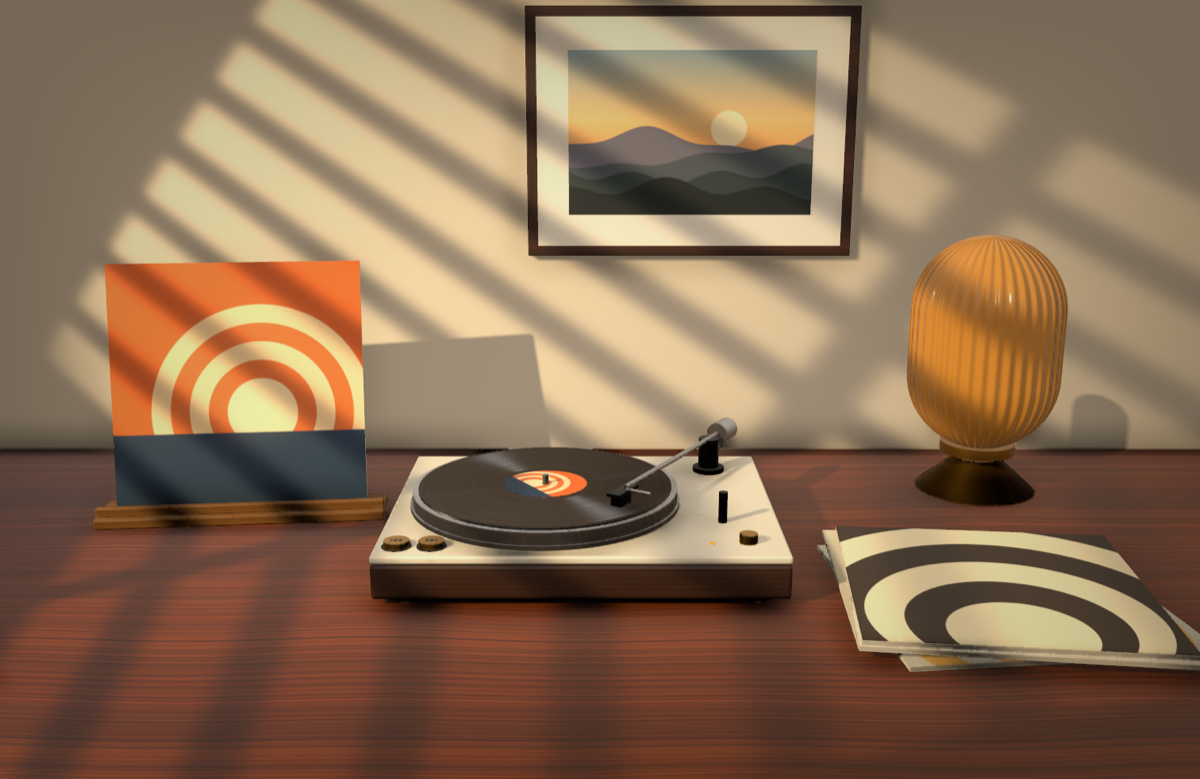
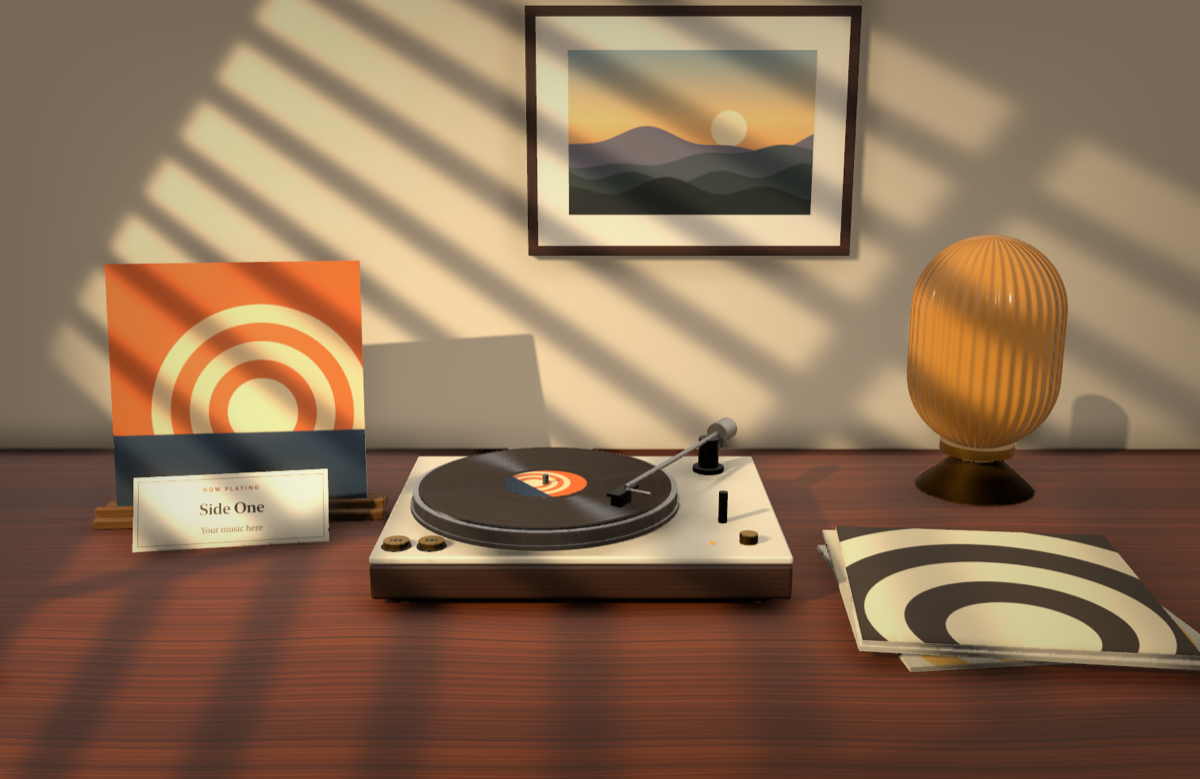
Show the song title on a card beside the sleeve

Changed region(s): [[0.0925, 0.5854, 0.3083, 0.7394]]

diff --git a/Sources/Vinyl/TurntableScene.swift b/Sources/Vinyl/TurntableScene.swift
@@ -56,6 +56,14 @@ final class TurntableScene {
     /// Things on the turntable that react to a click.
     enum Control: String { case playPause = "ctl.playpause", next = "ctl.next", previous = "ctl.prev" }
     private var buttons: [Control: SCNNode] = [:]
+
+    // Now-playing card.
+    private let cardHolder = SCNNode()
+    private let cardTilt = SCNNode()
+    private var cardMaterial = SCNMaterial()
+    private var cardEnabled = true
+    private var cardHasText = false
+    private let cardSize = CGSize(width: 2.3, height: 0.9)
     private var knobNode = SCNNode()
 
     private struct StackItem { let node: SCNNode; let dx: CGFloat; let dz: CGFloat; let yaw: CGFloat }
@@ -296,6 +304,50 @@ final class TurntableScene {
         stand.addChildNode(node(SCNBox(width: 3.6, height: 0.13, length: 0.75, chamferRadius: 0.025), oak, at: SCNVector3(0, 0.065, 0)))
         stand.addChildNode(node(SCNBox(width: 3.6, height: 0.12, length: 0.1, chamferRadius: 0.02), oak, at: SCNVector3(0, 0.18, 0.2)))
         scene.rootNode.addChildNode(stand)
+
+        // Title card: a small printed card propped up in front of the stand.
+        cardMaterial = Self.mat(Self.rgb(0.93, 0.90, 0.83), rough: 0.7)
+        let paper = Self.mat(Self.rgb(0.90, 0.88, 0.83), rough: 0.8)
+        let box = SCNBox(width: cardSize.width, height: cardSize.height, length: 0.025, chamferRadius: 0)
+        box.materials = [cardMaterial, paper, paper, paper, paper, paper]
+        let card = SCNNode(geometry: box)
+        card.position = SCNVector3(0, cardSize.height / 2, 0)
+        cardTilt.addChildNode(card)
+        cardHolder.addChildNode(cardTilt)
+        cardHolder.opacity = 0
+        cardHolder.isHidden = true
+        scene.rootNode.addChildNode(cardHolder)
+    }
+
+    /// Print a new title on the card (or clear it when nothing is loaded).
+    func setTitle(_ title: String?, artist: String?, animated: Bool) {
+        cardHasText = !(title ?? "").isEmpty
+        let image = cardHasText ? Tex.titleCard(title: title ?? "", artist: artist ?? "") : nil
+        let show = cardHasText && cardEnabled
+        let swap = { [self] in
+            if let image {
+                cardMaterial.diffuse.contents = image
+                cardMaterial.emission.contents = image
+            }
+            cardHolder.isHidden = !show
+        }
+        guard animated else {
+            swap()
+            cardHolder.opacity = show ? 1 : 0
+            return
+        }
+        cardHolder.runAction(.sequence([
+            .fadeOpacity(to: 0, duration: 0.25),
+            .run { _ in swap() },
+            .fadeOpacity(to: show ? 1 : 0, duration: 0.4),
+        ]))
+    }
+
+    func setTitleCardEnabled(_ on: Bool) {
+        cardEnabled = on
+        let show = cardHasText && on
+        cardHolder.isHidden = !show
+        cardHolder.opacity = show ? 1 : 0
     }
 
     private func buildLamp() {
@@ -433,6 +485,7 @@ final class TurntableScene {
             bulbMaterial.emission.contents = day ? NSColor.black : Self.rgb(1, 0.85, 0.6)
             bulbMaterial.emission.intensity = day ? 0 : 6
             sheenMaterial.emission.intensity = day ? 0.55 : 0.22
+            cardMaterial.emission.intensity = day ? 0 : 0.12 // keeps the print readable by lamplight
             applyCameraEffects()
 
             // Layout.
@@ -481,10 +534,17 @@ final class TurntableScene {
             sleeveHolder.position = SCNVector3(-4.55, stackHeight + sleeveThickness / 2 + 0.01, 0.75 + sleeveSize / 2)
             sleeveHolder.eulerAngles.y = 0
             sleeveTilt.eulerAngles.x = -.pi / 2
+            // Card lies flat below the stack.
+            cardHolder.position = SCNVector3(-4.55, 0.02, 3.8)
+            cardHolder.eulerAngles.y = -0.04
+            cardTilt.eulerAngles.x = -.pi / 2
         } else {
             sleeveHolder.position = SCNVector3(-4.6, 0.13, -0.2)
             sleeveHolder.eulerAngles.y = 0.1
             sleeveTilt.eulerAngles.x = -0.16
+            cardHolder.position = SCNVector3(-4.45, 0, 0.85)
+            cardHolder.eulerAngles.y = 0.16
+            cardTilt.eulerAngles.x = -0.5
         }
     }
 

diff --git a/Sources/Vinyl/Textures.swift b/Sources/Vinyl/Textures.swift
@@ -366,6 +366,44 @@ enum Tex {
         }
     }
 
+    /// Small printed card naming the song, like a label beside a record in a shop.
+    static func titleCard(title: String, artist: String) -> CGImage {
+        draw(1024, 400) { ctx in
+            var r = RNG(8)
+            ctx.setFillColor(color((0.93, 0.90, 0.83)))
+            ctx.fill(CGRect(x: 0, y: 0, width: 1024, height: 400))
+            for _ in 0..<5000 {
+                ctx.setFillColor(color((0.3, 0.2, 0.1), r.f(0.01, 0.05)))
+                ctx.fill(CGRect(x: r.f(0, 1024), y: r.f(0, 400), width: 2, height: 2))
+            }
+            ctx.setStrokeColor(color((0.25, 0.18, 0.12), 0.55))
+            ctx.setLineWidth(3)
+            ctx.stroke(CGRect(x: 26, y: 26, width: 972, height: 348))
+
+            let ink = NSColor(srgbRed: 0.15, green: 0.11, blue: 0.08, alpha: 1)
+            let para = NSMutableParagraphStyle()
+            para.alignment = .center
+            para.lineBreakMode = .byTruncatingTail
+            func serif(_ size: CGFloat, _ weight: NSFont.Weight) -> NSFont {
+                let base = NSFont.systemFont(ofSize: size, weight: weight)
+                return base.fontDescriptor.withDesign(.serif).flatMap { NSFont(descriptor: $0, size: size) } ?? base
+            }
+            NSGraphicsContext.saveGraphicsState()
+            NSGraphicsContext.current = NSGraphicsContext(cgContext: ctx, flipped: false)
+            NSAttributedString(string: "NOW PLAYING", attributes: [
+                .font: NSFont.systemFont(ofSize: 30, weight: .semibold), .kern: 9,
+                .foregroundColor: NSColor(srgbRed: 0.62, green: 0.33, blue: 0.14, alpha: 1), .paragraphStyle: para,
+            ]).draw(in: CGRect(x: 60, y: 290, width: 904, height: 44))
+            // Shrink long titles a little before truncating them.
+            let size: CGFloat = title.count > 26 ? 66 : 84
+            NSAttributedString(string: title, attributes: [.font: serif(size, .semibold), .foregroundColor: ink, .paragraphStyle: para])
+                .draw(in: CGRect(x: 60, y: 150, width: 904, height: size * 1.3))
+            NSAttributedString(string: artist, attributes: [.font: serif(46, .regular), .foregroundColor: ink.withAlphaComponent(0.7), .paragraphStyle: para])
+                .draw(in: CGRect(x: 60, y: 62, width: 904, height: 62))
+            NSGraphicsContext.restoreGraphicsState()
+        }
+    }
+
     /// Soft contact shadow used when the room is hidden.
     static func shadowBlob() -> CGImage {
         draw(256, 256) { ctx in

diff --git a/Sources/Vinyl/DesktopController.swift b/Sources/Vinyl/DesktopController.swift
@@ -27,6 +27,7 @@ final class AppState: ObservableObject {
     }
     /// Follow the clock: Daylight from 6:30 to 18:30, Lamplight otherwise.
     @Published var autoScene: Bool { didSet { defaults.set(autoScene, forKey: "autoScene"); syncSceneToClock() } }
+    @Published var showTitle: Bool { didSet { defaults.set(showTitle, forKey: "showTitle"); onChange?() } }
     var onChange: (() -> Void)?
     private var clock: Timer?
 
@@ -53,6 +54,7 @@ final class AppState: ObservableObject {
         sizeIndex = defaults.object(forKey: "size") as? Int ?? 1
         transparent = defaults.bool(forKey: "transparent")
         launchAtLogin = SMAppService.mainApp.status == .enabled
+        showTitle = defaults.object(forKey: "showTitle") as? Bool ?? true
         autoScene = defaults.object(forKey: "autoScene") as? Bool ?? true
         if autoScene { preset = Self.sceneForNow() }
         clock = Timer.scheduledTimer(withTimeInterval: 60, repeats: true) { [weak self] _ in self?.syncSceneToClock() }
@@ -103,6 +105,7 @@ final class DesktopController: NSObject, SCNSceneRendererDelegate {
         scene.setSize(AppState.sizeFactors[state.sizeIndex], animated: false)
         scene.apply(preset: state.preset, animated: false)
         applyTransparency(state.transparent)
+        scene.setTitleCardEnabled(state.showTitle)
         window.orderFrontRegardless()
         kick(3)
 
@@ -162,7 +165,13 @@ final class DesktopController: NSObject, SCNSceneRendererDelegate {
         kick(4)
     }
 
+    func setTrack(title: String?, artist: String?) {
+        scene.setTitle(title, artist: artist, animated: true)
+        kick(3)
+    }
+
     func applySettings() {
+        scene.setTitleCardEnabled(state.showTitle)
         if state.transparent != appliedTransparent { applyTransparency(state.transparent) }
         if state.sizeIndex != appliedSize {
             appliedSize = state.sizeIndex

diff --git a/Sources/Vinyl/SettingsView.swift b/Sources/Vinyl/SettingsView.swift
@@ -32,6 +32,10 @@ struct SettingsView: View {
                     Toggle("", isOn: $state.autoScene).labelsHidden().toggleStyle(.switch).tint(accent)
                 }
                 Divider().overlay(hairline)
+                row("textformat", "Show song title", "A small card on the desk names the track and artist") {
+                    Toggle("", isOn: $state.showTitle).labelsHidden().toggleStyle(.switch).tint(accent)
+                }
+                Divider().overlay(hairline)
                 row("rectangle.on.rectangle", "Transparent background", "Sit the turntable on your own wallpaper") {
                     Toggle("", isOn: $state.transparent).labelsHidden().toggleStyle(.switch).tint(accent)
                 }

diff --git a/Sources/Vinyl/AppDelegate.swift b/Sources/Vinyl/AppDelegate.swift
@@ -64,6 +64,7 @@ final class AppDelegate: NSObject, NSApplicationDelegate, NSMenuDelegate {
 
         guard let track, track.key != currentKey else { return }
         currentKey = track.key
+        desktop.setTrack(title: track.title, artist: track.artist)
         Artwork.fetch(for: track) { [weak self] image in
             guard let self, self.currentKey == track.key else { return }
             NSLog("Vinyl: cover %@ for %@", image == nil ? "not found" : "loaded", track.album)

diff --git a/Sources/Vinyl/main.swift b/Sources/Vinyl/main.swift
@@ -11,6 +11,7 @@ func renderStill(preset: TurntableScene.Preset, size: CGSize, art: CGImage?, sta
     let s = TurntableScene(art: art)
     for a in stack { s.pushToStack(a, animated: false) }
     s.apply(preset: preset, animated: false)
+    s.setTitle("Side One", artist: "Your music here", animated: false)
     s.setPlaying(playing, animated: false)
     s.setPlatterAngle(0.6)
     let renderer = SCNRenderer(device: MTLCreateSystemDefaultDevice(), options: nil)

diff --git a/README.md b/README.md
@@ -16,6 +16,7 @@ Personal project. Everything on screen is rendered live with SceneKit and every 
 - Three scenes: **Daylight**, **Lamplight** and **Top Down**
 - Follows the clock: Daylight from 6:30 am, Lamplight after 6:30 pm (can be turned off)
 - Click the tonearm (or the brass knob) on the desktop to play or pause
+- A small printed card on the desk names the song and artist (can be turned off)
 - Two brass buttons on the deck skip to the previous or next song
 - The tonearm swings onto the record and the platter spins up at 33⅓ rpm
 - Album covers come from Spotify and Apple Music, no login
